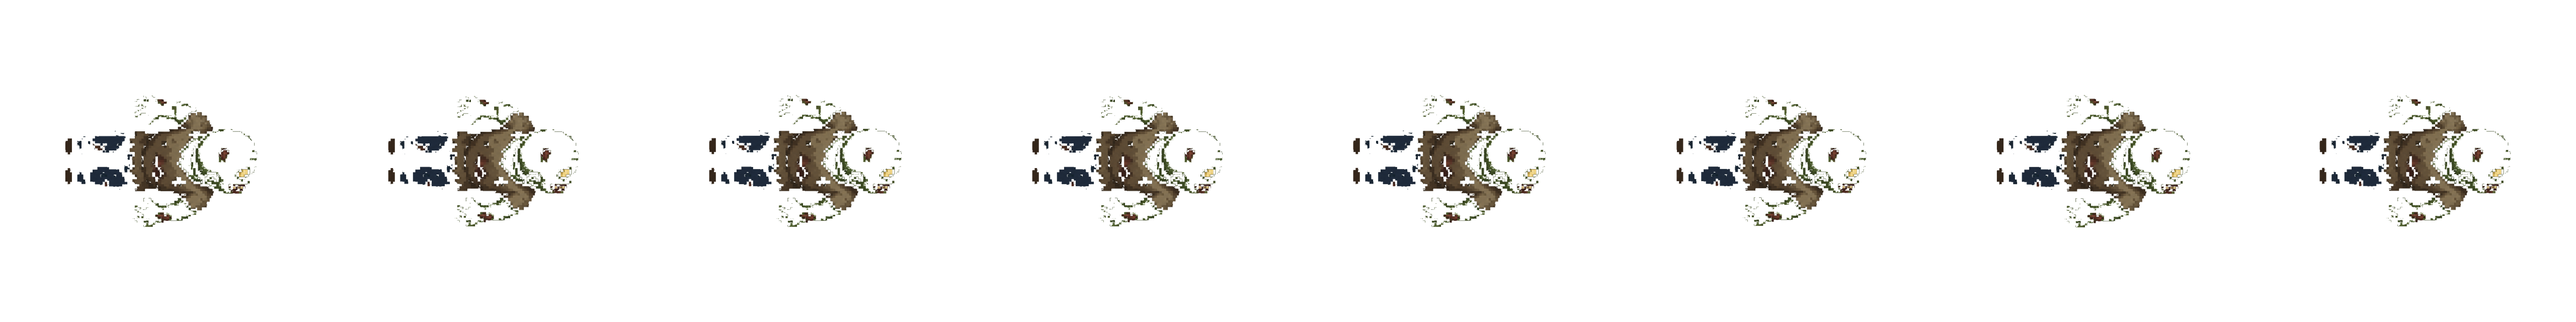
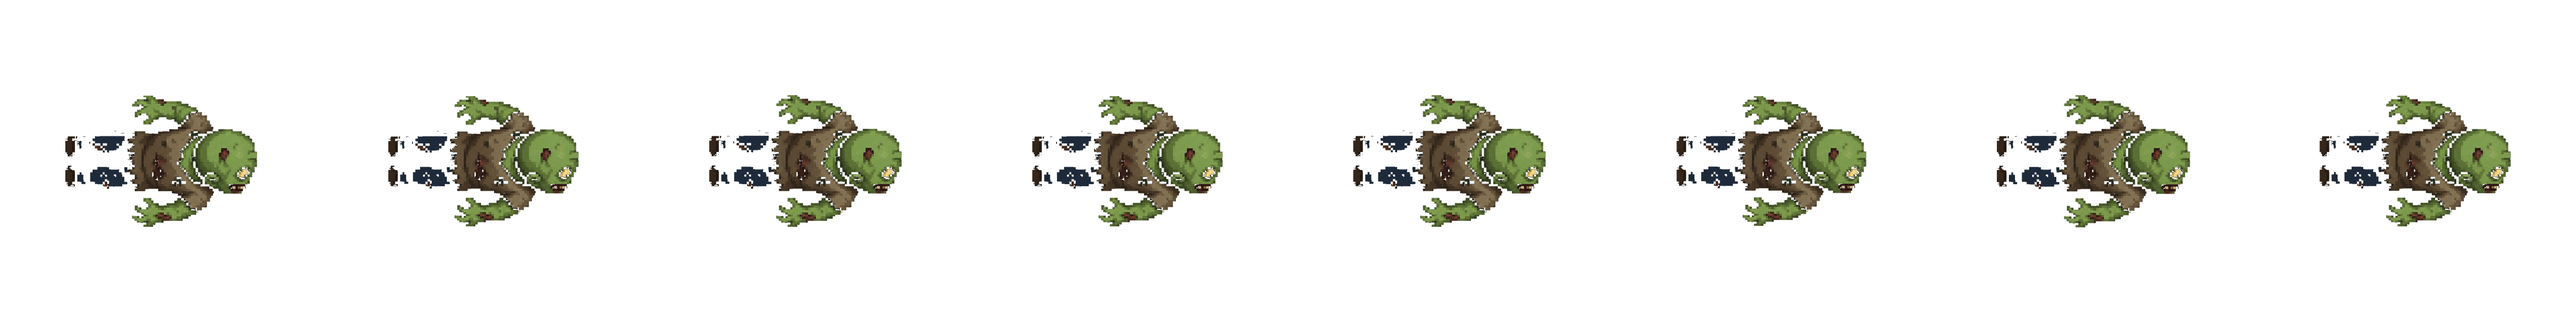
Fix invisible green zombies by stopping backdrop removal from erasing character pixels.

diff --git a/public/game.js b/public/game.js
@@ -159,7 +159,7 @@ const WAVE_EVENTS = [
 
 
 
-const SPRITE_VERSION = 29;
+const SPRITE_VERSION = 30;
 
 function loadSpriteSheet(relativePath, frameCount, frameWidth, frameHeight, meta = {}) {
   const sheet = { img: new Image(), frameCount, frameWidth, frameHeight, ready: false, ...meta };
@@ -347,13 +347,16 @@ function getZombieVariantSet(z) {
 
 function usesZombieVariantArt(z) {
   const set = getZombieVariantSet(z);
-  return Boolean(set?.move?.ready && set?.idle?.ready);
+  return Boolean(set?.move?.ready || set?.idle?.ready);
 }
 
 function getZombieDrawSheet(z) {
   const set = getZombieVariantSet(z);
   if (usesZombieVariantArt(z)) {
-    return (z.animTick || 0) > 0 ? set.move : set.idle;
+    const moving = (z.animTick || 0) > 0;
+    if (moving && set.move?.ready) return set.move;
+    if (set.idle?.ready) return set.idle;
+    return set.move?.ready ? set.move : set.idle;
   }
   return (z.animTick || 0) > 0 ? zombieSprites.move : zombieSprites.idle;
 }

diff --git a/public/index.html b/public/index.html
@@ -5284,7 +5284,7 @@ TikTok @hulklives
 </div>
 
 <script src="game-pro.js?v=3"></script>
-<script src="game.js?v=208"></script>
+<script src="game.js?v=209"></script>
 <script src="chat.js?v=2"></script>
 <script src="daily-challenges.js?v=2"></script>
 <script src="friends.js?v=5"></script>
